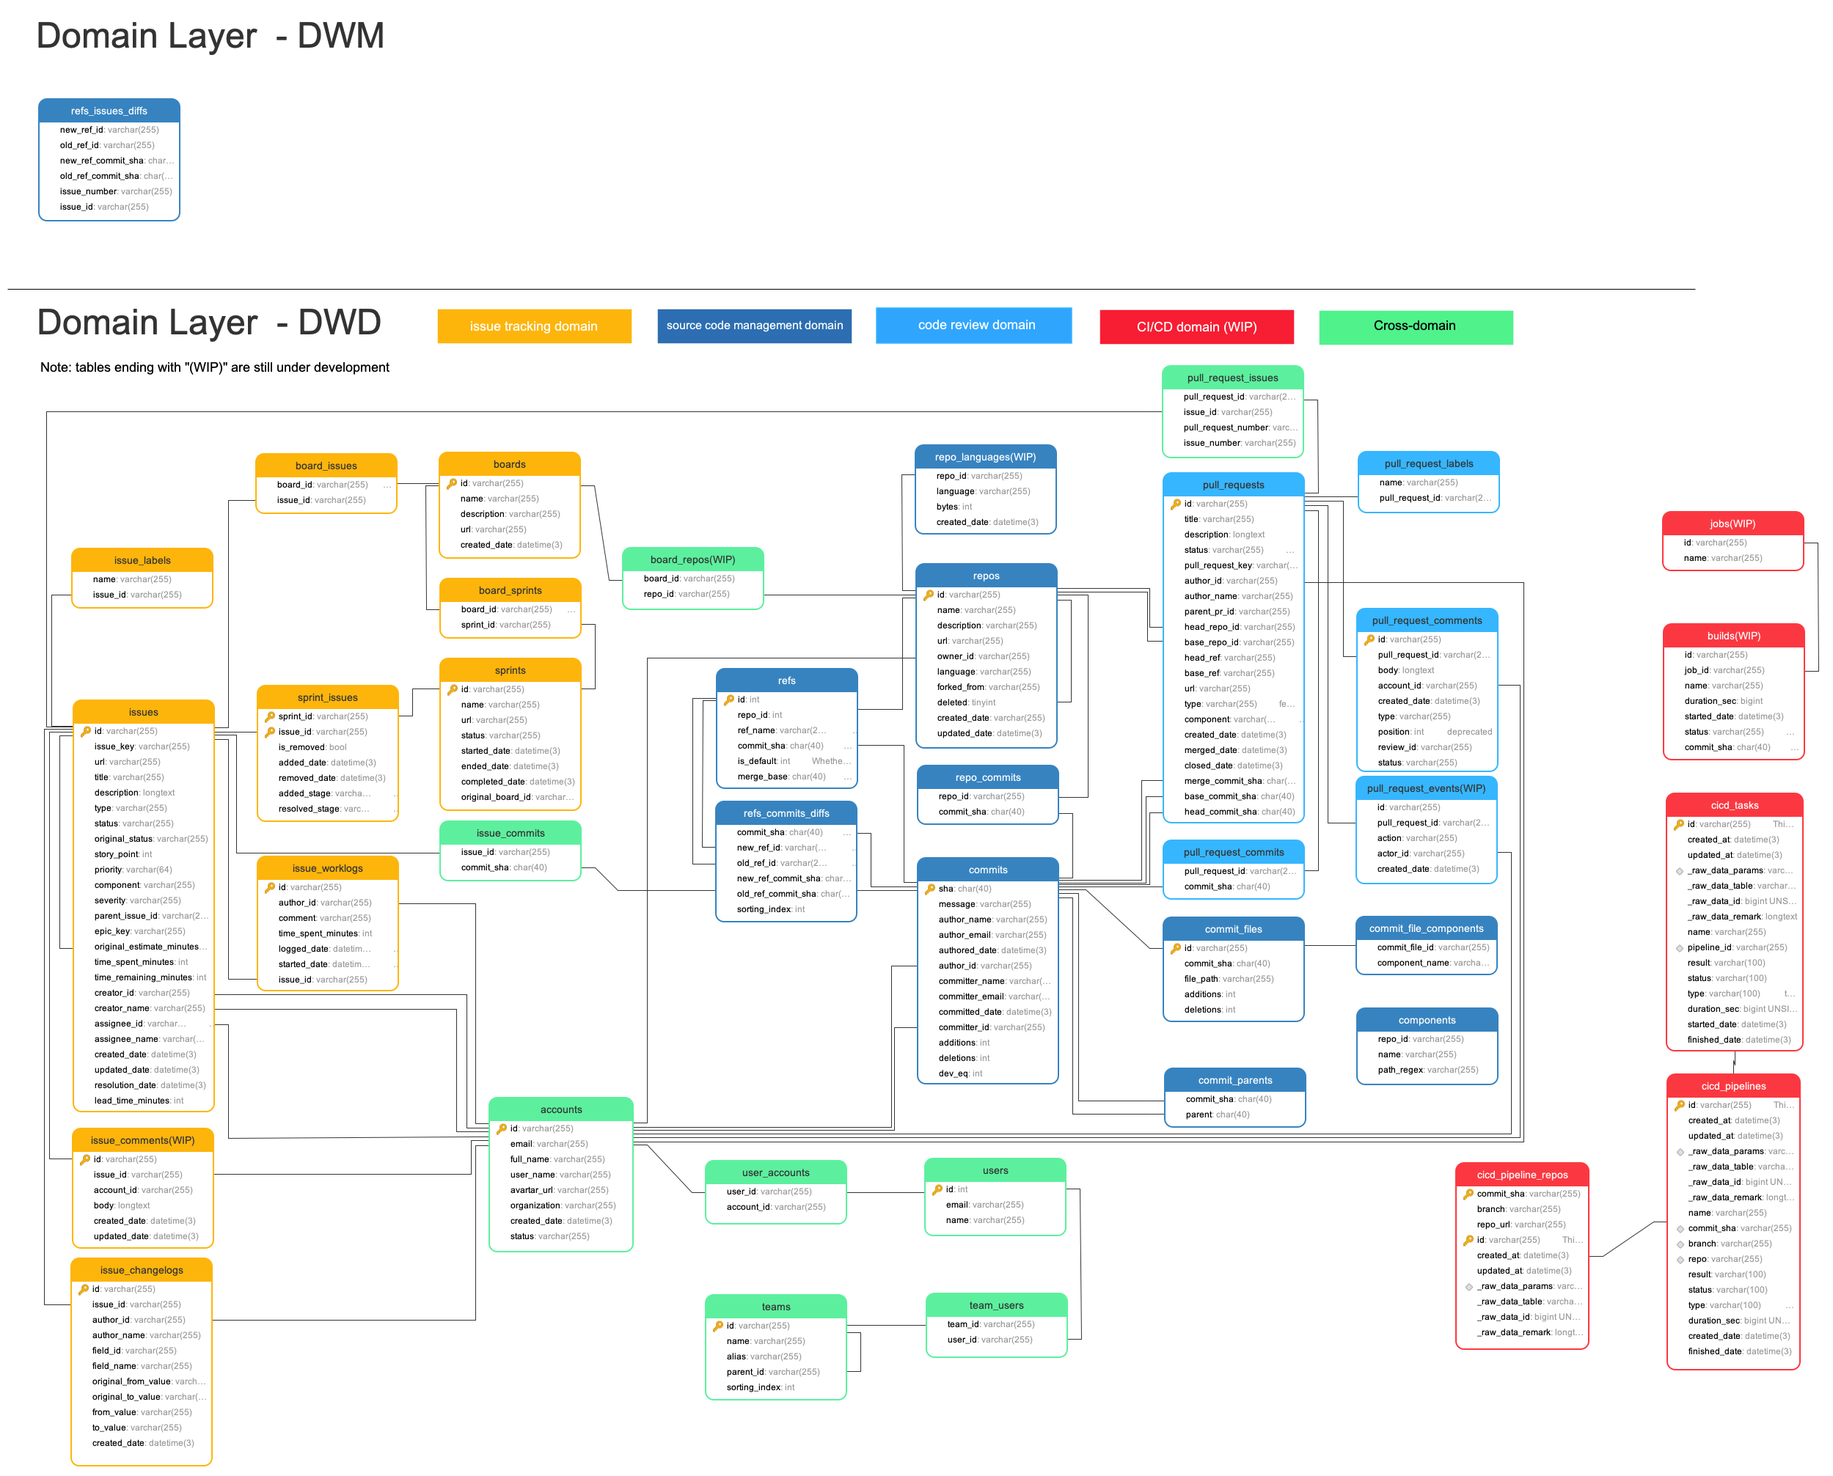
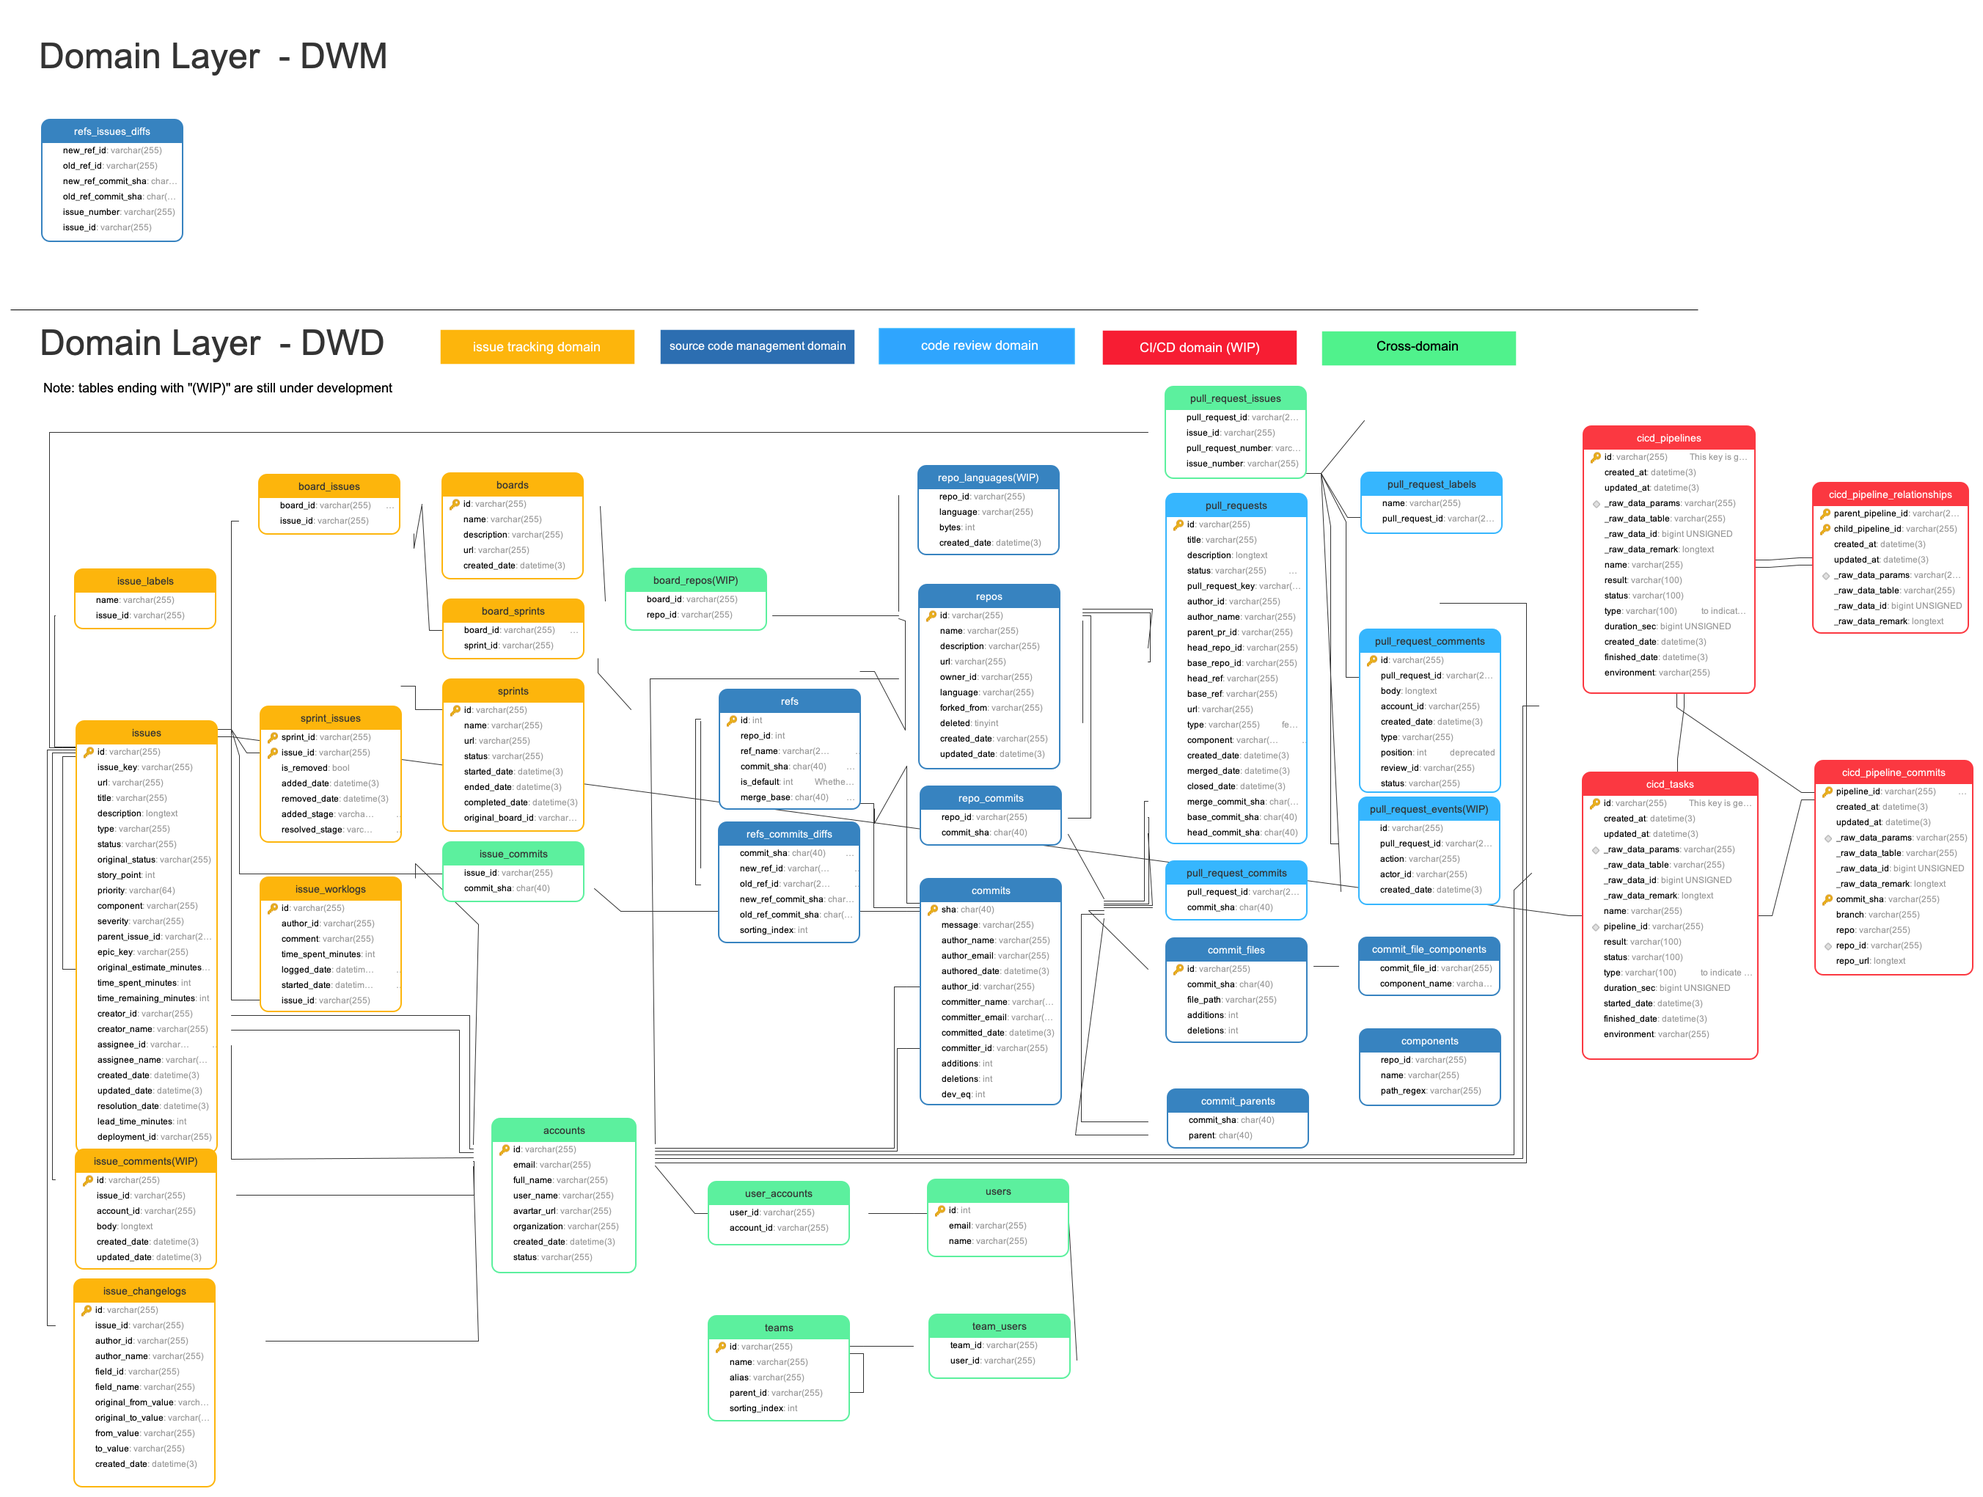
docs(domain layer): update domain layer schema

diff --git a/docs/DataModels/DevLakeDomainLayerSchema.md b/docs/DataModels/DevLakeDomainLayerSchema.md
@@ -96,6 +96,7 @@ An `issue` is the abstraction of Jira/Github/GitLab/TAPD/... issues.
 | `updated_date`              | datetime | 3          | The last time issue gets updated                                                                                                                                                                                                                                                                                                                                                                                                                                                                                                                                                                         |         |
 | `resolution_date`           | datetime | 3          | The time the issue changes to 'DONE'.                                                                                                                                                                                                                                                                                                                                                                                                                                                                                                                                                                    |         |
 | `lead_time_minutes`         | int      |            | Describes the cycle time from issue creation to issue resolution.<ul><li>For issues whose type = 'REQUIREMENT' and status = 'DONE', lead_time_minutes = resolution_date - created_date. The unit is minute.</li><li>For issues whose type != 'REQUIREMENT' or status != 'DONE', lead_time_minutes is null</li></ul>                                                                                                                                                                                                                                                                                      |         |
+| `deployment_id` | varchar | 255 | The cicd_task that relates to this issue                                                                                                                                                                                                                                                                                                                                                                                                                                                                                                                                                                 |  |
 
 #### issue_labels
 
@@ -428,80 +429,80 @@ Events of pull requests.
 
 ### Domain 4 - CI/CD(WIP)
 
-#### jobs
-
-The CI/CD schedule, not a specific task.
-
-| **field** | **type** | **length** | **description** | **key** |
-| :-------- | :------- | :--------- | :-------------- | :------ |
-| `id`      | varchar  | 255        | Job id          | PK      |
-| `name`    | varchar  | 255        | Name of job     |         |
-
-#### builds
-
-A build is an execution of a job.
-
-| **field**      | **type** | **length** | **description**                                                  | **key**    |
-| :------------- | :------- | :--------- | :--------------------------------------------------------------- | :--------- |
-| `id`           | varchar  | 255        | Build id                                                         | PK         |
-| `job_id`       | varchar  | 255        | Id of the job this build belongs to                              | FK_jobs.id |
-| `name`         | varchar  | 255        | Name of build                                                    |            |
-| `duration_sec` | bigint   |            | The duration of build in seconds                                 |            |
-| `started_date` | datetime | 3          | Started time of the build                                        |            |
-| `status`       | varchar  | 255        | The result of build. The values may be 'success', 'failed', etc. |            |
-| `commit_sha`   | char     | 40         | The specific commit being built on. Nullable.                    |            |
-
 #### cicd_pipelines
 
 A cicd_pipeline is a series of builds that have connections or a standalone build.
 
-| **field**          | **type**        | **length** | **description**                                                 | **key** |
-| :----------------- | :-------------- | :--------- | :-------------------------------------------------------------- | :------ |
-| `id`               | varchar         | 255       | This key is generated based on details from the original plugin | PK      |
-| `created_at`       | datetime        | 3         |                                                                 |         |
-| `updated_at`       | datetime        | 3         |                                                                 |         |
-| `name`             | varchar         | 255       |                                                                 |         |
-| `commit_sha`       | varchar         | 255       |                                                                 |         |
-| `branch`           | varchar         | 255       |                                                                 |         |
-| `repo`             | varchar         | 255       |                                                                 |         |
-| `result`           | varchar         | 100       |                                                                 |         |
-| `status`           | varchar         | 100       |                                                                 |         |
-| `type`             | varchar         | 100       | to indicate this is CI or CD                                    |         |
-| `duration_sec`     | bigint unsigned |            |                                                                 |         |
-| `created_date`     | datetime        | 3         |                                                                 |         |
-| `finished_date`    | datetime        | 3         |                                                                 |         |
+| **field** | **type** | **length** | **description**                                                                               | **key** |
+| :-------- | :-------- | :-------- |:----------------------------------------------------------------------------------------------| :-------- |
+| `id` | varchar | 255 | This key is generated based on details from the original plugin                               | PK |
+| `created_at` | datetime | 3                             | Devlake common.NoPKModel                                                                      |  |
+| `updated_at` | datetime | 3                             | Devlake common.NoPKModel                                                                      |  |
+| `_raw_data_params` | varchar | 255                           | Devlake common.NoPKModel.RawDataOrigin                                                        |  |
+| `_raw_data_table` | varchar | 255                           | Devlake common.NoPKModel.RawDataOrigin                                                        |  |
+| `_raw_data_id` | bigint unsigned | Devlake common.NoPKModel.RawDataOrigin |                                                                                               |  |
+| `_raw_data_remark` | longtext | Devlake common.NoPKModel.RawDataOrigin              |                                                                                               |  |
+| `name` | varchar | 255 | For gitlab, as there is no name for pipeline, so we use projectId, others have their own name |  |
+| `result` | varchar | 100                           | The result of this task                                                                       |  |
+| `status` | varchar | 100                           | The status of this task                                                                       |  |
+| `type` | varchar | 100                           | To indicate if this is a DEPLOYMENT                                                           |  |
+| `duration_sec` | bigint unsigned |                                | how long does this task take                                                                  |  |
+| `started_date` | datetime | 3                             | when did this task start                                                                      |  |
+| `finished_date` | datetime | 3                             | when did this task finish                                                                     |  |
+| `environment` | varchar | 255                           | To indicate the environment in which the task is running                                                       |  |
 
-#### cicd_pipeline_repos
+#### cicd_pipeline_commits
 
-A map between cic_pipeline and repo info.
+| **field** | **type** | **length** | **description**                                                 | **key** |
+| :-------- | :-------- | :-------- |:----------------------------------------------------------------| :-------- |
+| `pipeline_id` | varchar | 255 | This key is generated based on details from the original plugin | PK |
+| `created_at` | datetime | 3                             | Devlake common.NoPKModel                                                |  |
+| `updated_at` | datetime | 3                             | Devlake common.NoPKModel                                                |  |
+| `_raw_data_params` | varchar | 255                           | Devlake common.NoPKModel.RawDataOrigin                                  |  |
+| `_raw_data_table` | varchar | 255                           | Devlake common.NoPKModel.RawDataOrigin                                  |  |
+| `_raw_data_id` | bigint unsigned | Devlake common.NoPKModel.RawDataOrigin |                                                                 |  |
+| `_raw_data_remark` | longtext | Devlake common.NoPKModel.RawDataOrigin              |                                                                 |  |
+| `commit_sha` | varchar | 255 | The commit that trigger this pipeline                           | PK |
+| `branch` | varchar | 255 | The branch that trigger this pipeline                           |  |
+| `repo` | varchar | 255 |                                                                 |  |
+| `repo_id` | varchar | 255 | The repo that this pipeline belongs to                          |  |
+| `repo_url` | longtext |  |                                                                 |  |
 
-| **field**    | **type** | **length** | **description**                                                 | **key** |
-| :----------- | :------- | :--------- | :-------------------------------------------------------------- | :------ |
-| `commit_sha` | varchar  | 255       |                                                                 | PK      |
-| `branch`     | varchar  | 255       |                                                                 |         |
-| `repo_url`   | varchar  | 255       |                                                                 |         |
-| `id`         | varchar  | 255       | This key is generated based on details from the original plugin | PK      |
-| `created_at` | datetime | 3         |                                                                 |         |
-| `updated_at` | datetime | 3         |                                                                 |         |
+#### cicd_pipeline_relationships
 
+| **field** | **type** | **length** | **description**                                   | **key** |
+| :-------- | :-------- | :-------- |:--------------------------------------------------| :-------- |
+| `parent_pipeline_id` | varchar | 255 | The pipeline trigger child_pipeline               | PK |
+| `child_pipeline_id` | varchar | 255 | The pipeline that is triggered by parent_pipeline | PK |
+| `created_at` | datetime | 3                             | Devlake common.NoPKModel                                                |  |
+| `updated_at` | datetime | 3                             | Devlake common.NoPKModel                                                |  |
+| `_raw_data_params` | varchar | 255                           | Devlake common.NoPKModel.RawDataOrigin                                  |  |
+| `_raw_data_table` | varchar | 255                           | Devlake common.NoPKModel.RawDataOrigin                                  |  |
+| `_raw_data_id` | bigint unsigned | Devlake common.NoPKModel.RawDataOrigin |                                                                 |  |
+| `_raw_data_remark` | longtext | Devlake common.NoPKModel.RawDataOrigin              |                                                                 |  |
 
 #### cicd_tasks
 
 A cicd_task is a single job of ci/cd.
 
-| **field**          | **type**        | **length** | **description**                                                 | **key** |
-| :----------------- | :-------------- | :--------- | :-------------------------------------------------------------- | :------ |
-| `id`               | varchar         | 255        | This key is generated based on details from the original plugin | PK      |
-| `created_at`       | datetime        | 3          |                                                                 |         |
-| `updated_at`       | datetime        | 3          |                                                                 |         |
-| `name`             | varchar         | 255        |                                                                 |         |
-| `pipeline_id`      | varchar         | 255        |                                                                 |         |
-| `result`           | varchar         | 100        |                                                                 |         |
-| `status`           | varchar         | 100        |                                                                 |         |
-| `type`             | varchar         | 100        | to indicate this is CI or CD                                    |         |
-| `duration_sec`     | bigint unsigned |            |                                                                 |         |
-| `started_date`     | datetime        | 3          |                                                                 |         |
-| `finished_date`    | datetime        | 3          |                                                                 |         |
+| **field** | **type** | **length**                     | **description**                                                 | **key** |
+| :-------- | :-------- |:-------------------------------|:----------------------------------------------------------------| :-------- |
+| `id` | varchar | 255                           | This key is generated based on details from the original plugin | PK |
+| `created_at` | datetime | 3                             | Devlake common.NoPKModel                                                |  |
+| `updated_at` | datetime | 3                             | Devlake common.NoPKModel                                                |  |
+| `_raw_data_params` | varchar | 255                           | Devlake common.NoPKModel.RawDataOrigin                                  |  |
+| `_raw_data_table` | varchar | 255                           | Devlake common.NoPKModel.RawDataOrigin                                  |  |
+| `_raw_data_id` | bigint unsigned | Devlake common.NoPKModel.RawDataOrigin |                                                                 |  |
+| `_raw_data_remark` | longtext | Devlake common.NoPKModel.RawDataOrigin              |                                                                 |  |
+| `name` | varchar | 255                           |                                                                 |  |
+| `pipeline_id` | varchar | 255                           | The id of pipeline                                              |  |
+| `result` | varchar | 100                           | The result of this task                                         |  |
+| `status` | varchar | 100                           | The status of this task                                         |  |
+| `type` | varchar | 100                           | To indicate if this is a DEPLOYMENT                             |  |
+| `duration_sec` | bigint unsigned |                                | how long does this task take                                    |  |
+| `started_date` | datetime | 3                             | when did this task start                                        |  |
+| `finished_date` | datetime | 3                             | when did this task finish                                       |  |
+| `environment` | varchar | 255                           | To indicate the environment in which the task is running                         |  |
 
 
 ### Cross-Domain Entities
